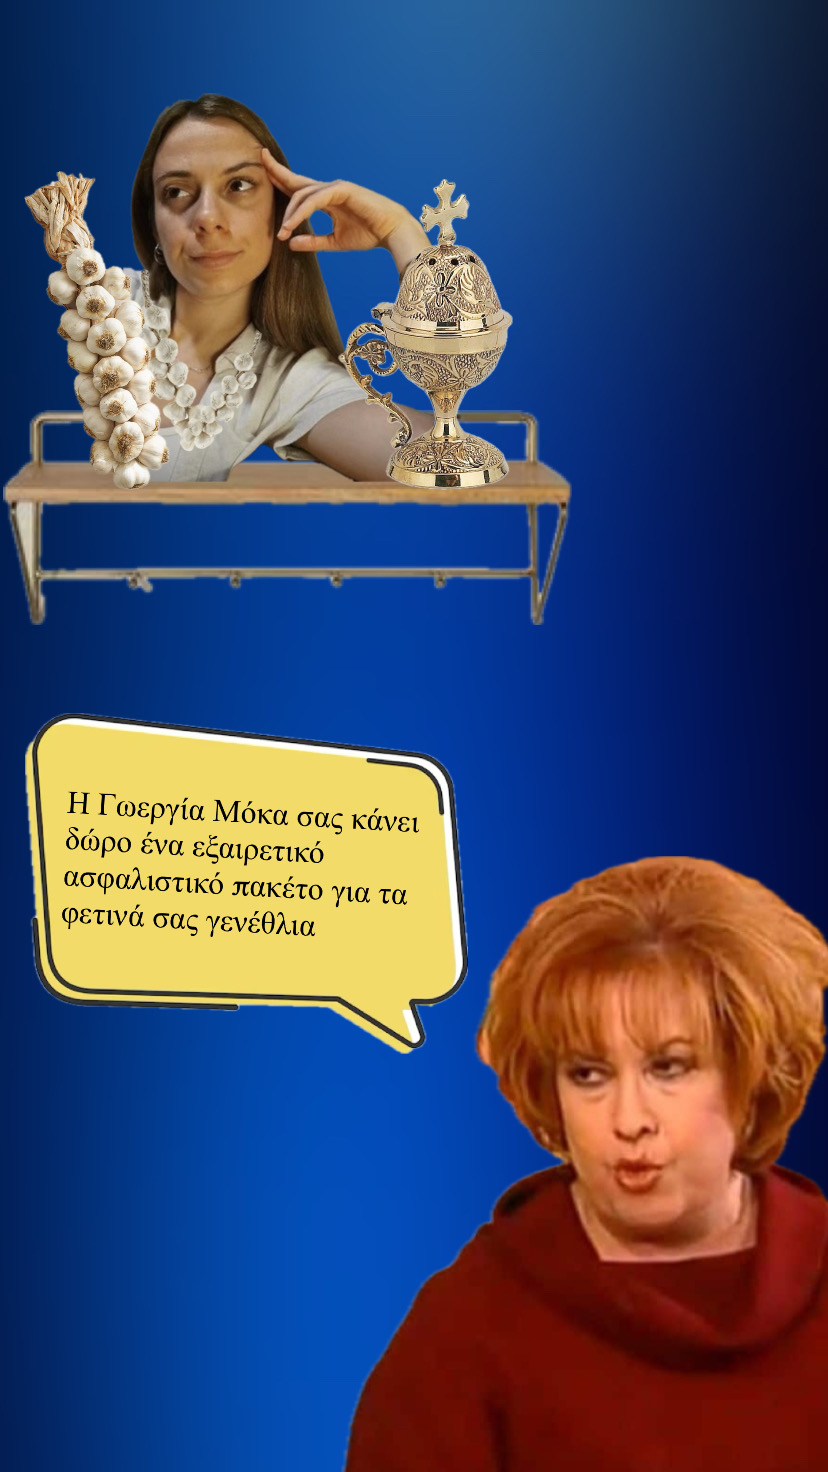
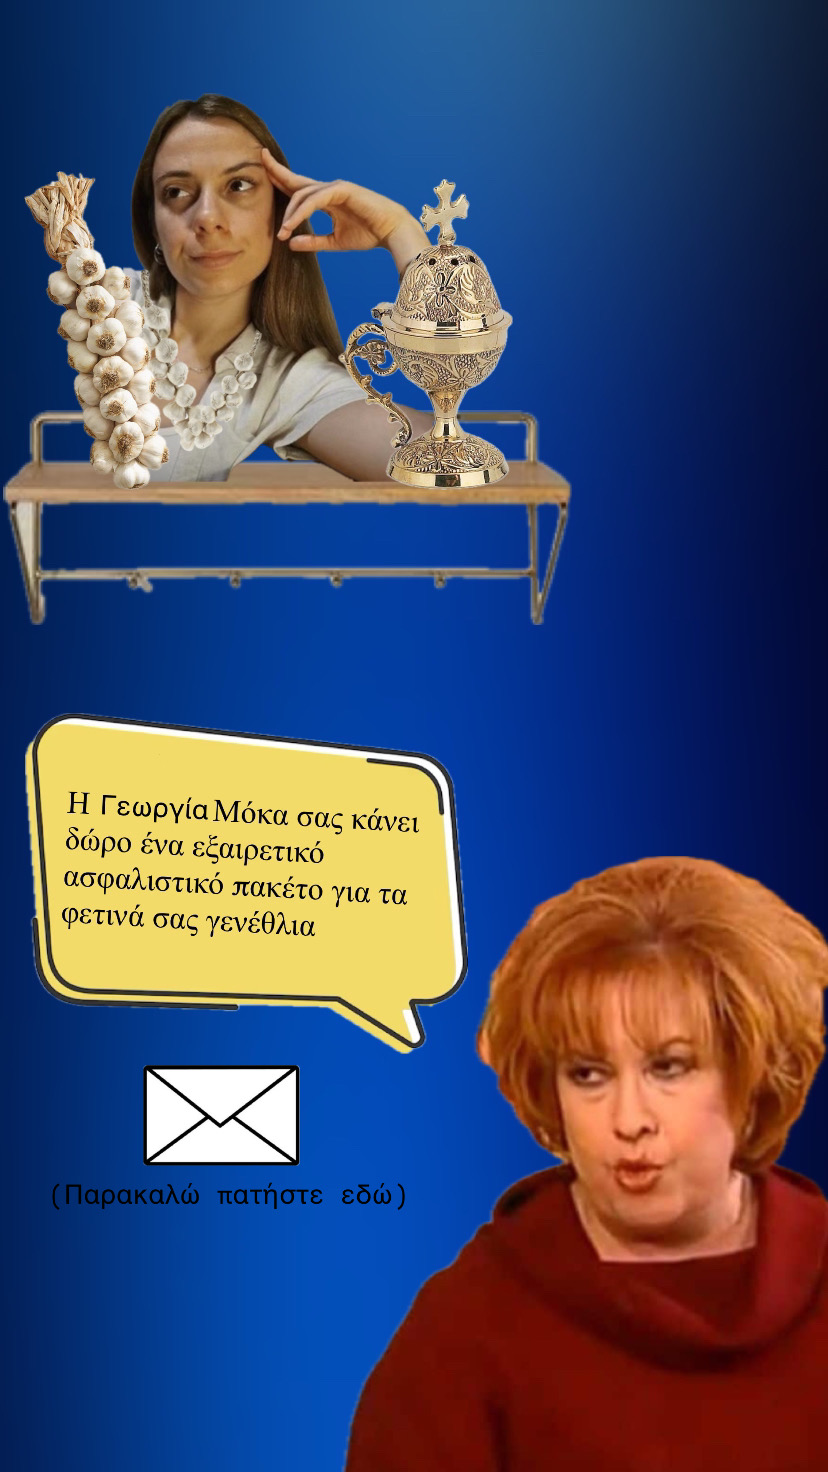
Add files via upload

diff --git a/birthday gift/interactive-photo.html b/birthday gift/interactive-photo.html
@@ -1,0 +1,53 @@
+<!DOCTYPE html>
+<html lang="el">
+<head>
+  <meta charset="UTF-8">
+  <meta name="viewport" content="width=device-width, initial-scale=1.0">
+  <title>Διαδραστική Φωτογραφία</title>
+  <style>
+    /* CSS για να ρυθμίσουμε το στυλ των φωτογραφιών */
+    .photo-container {
+      position: relative;
+      width: 300px; /* Μέγεθος της εικόνας */
+    }
+
+    .photo-container img {
+      width: 100%;
+      cursor: pointer;
+    }
+
+    .second-photo {
+      display: none; /* Αρχικά κρυμμένη η δεύτερη φωτογραφία */
+      position: absolute;
+      top: 0;
+      left: 0;
+    }
+  </style>
+</head>
+<body>
+
+  <div class="photo-container">
+    <!-- Πρώτη Φωτογραφία -->
+    <img src="first-photo.jpg" alt="Πρώτη Φωτογραφία" id="firstPhoto">
+    
+    <!-- Δεύτερη Φωτογραφία -->
+    <img src="second-photo.jpg" alt="Δεύτερη Φωτογραφία" class="second-photo" id="secondPhoto">
+  </div>
+
+  <script>
+    // JavaScript για να εμφανίσουμε τη δεύτερη φωτογραφία
+    var firstPhoto = document.getElementById("firstPhoto");
+    var secondPhoto = document.getElementById("secondPhoto");
+
+    firstPhoto.addEventListener("click", function() {
+      // Όταν κάνουμε κλικ στην πρώτη φωτογραφία, δείχνουμε τη δεύτερη
+      if (secondPhoto.style.display === "none") {
+        secondPhoto.style.display = "block";
+      } else {
+        secondPhoto.style.display = "none";
+      }
+    });
+  </script>
+
+</body>
+</html>
